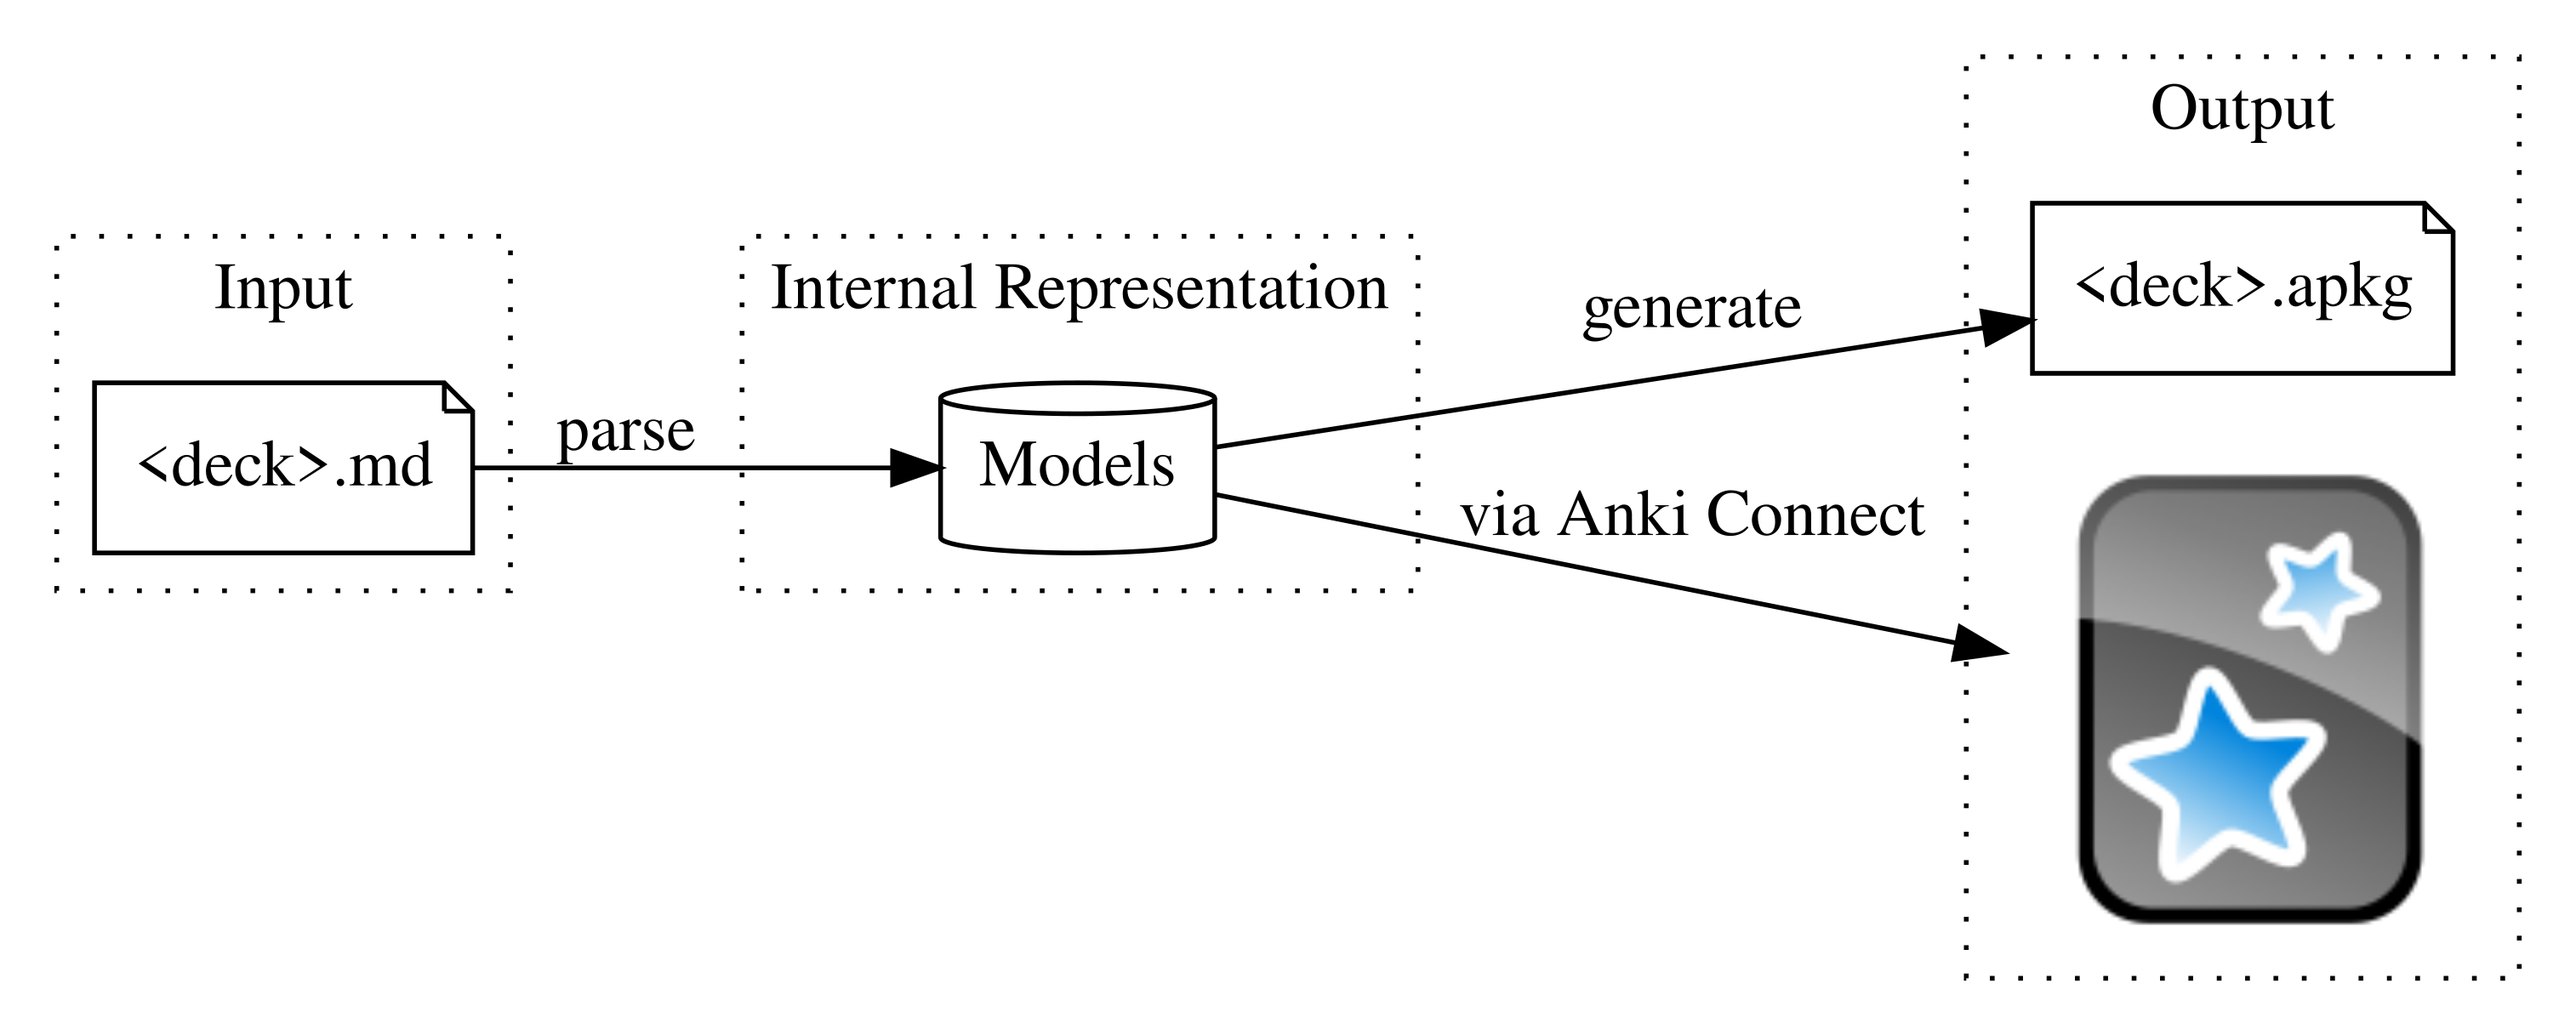
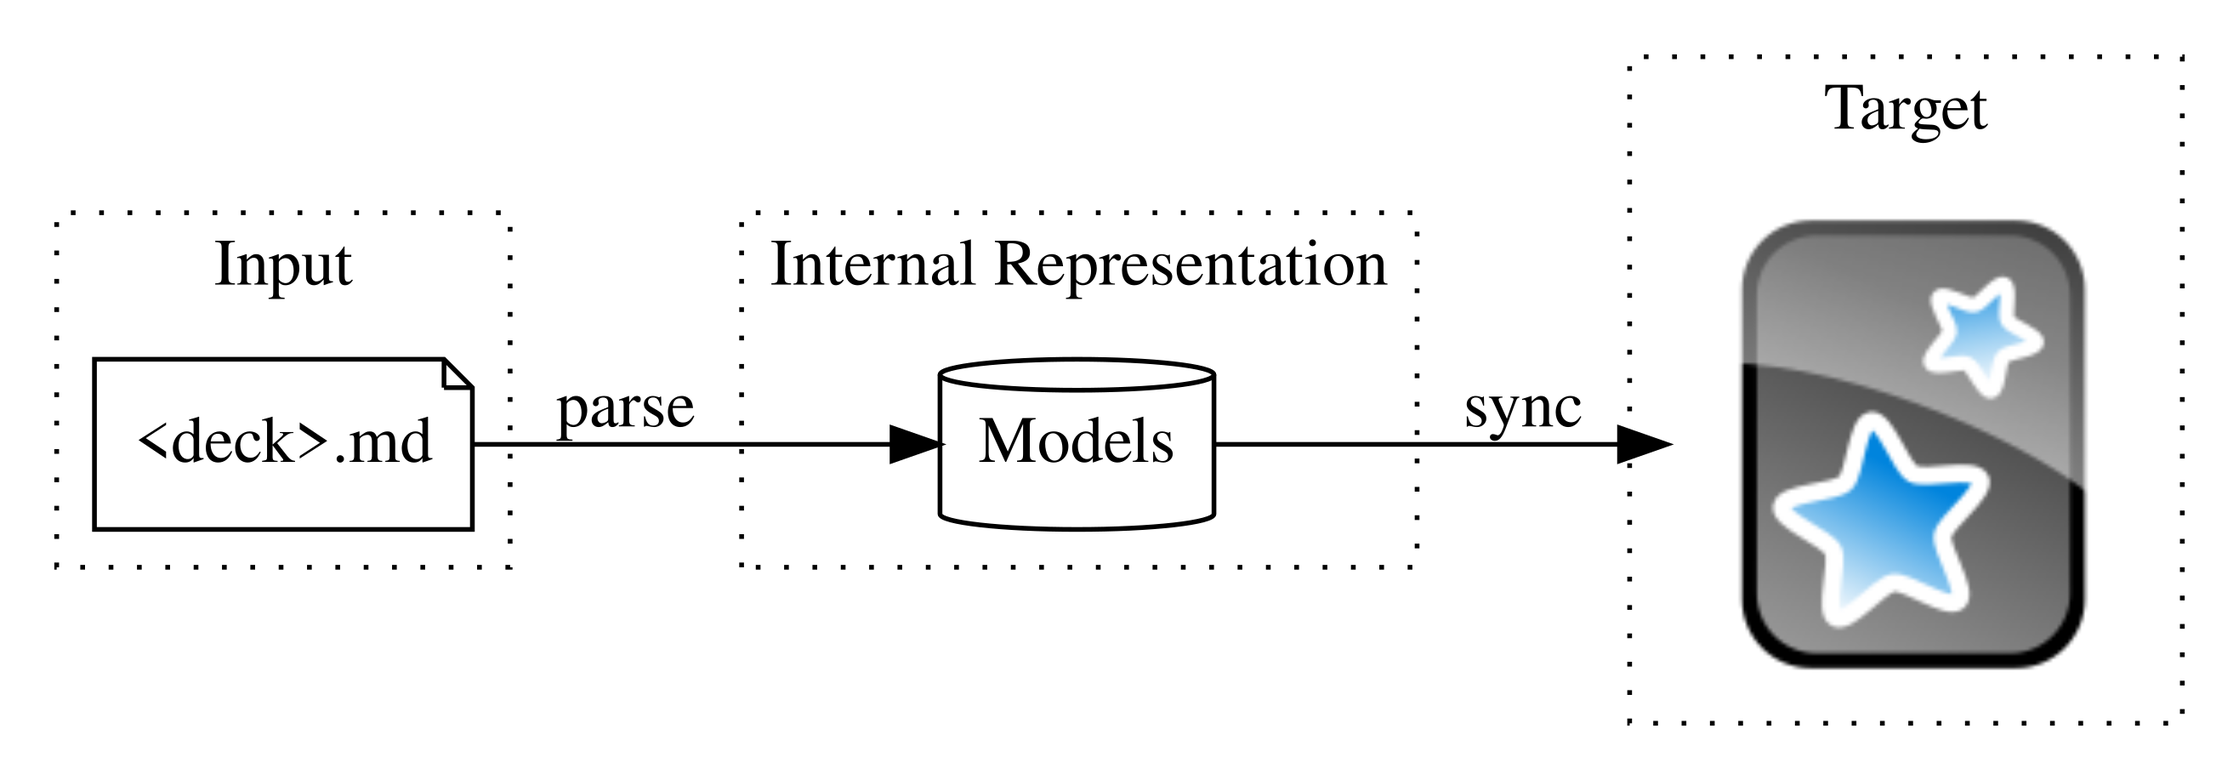
doc: drop the apkg from scope

diff --git a/README.md b/README.md
@@ -14,8 +14,8 @@ The markdown format for Anki cards.
 
 ### Actions
 
-- 🔄 [WIP] Sync: md -> Anki Desktop (via [Anki Connect](https://ankiweb.net/shared/info/2055492159))
-- ➡ [TODO] Convert: md -> deck apkg
+- 🔄 `sync`: md -> Anki Desktop (via [Anki Connect](https://ankiweb.net/shared/info/2055492159))
+- ➡ `connect`: [Anki Connect](https://github.com/FooSoft/anki-connect#supported-actions) wrapper
 
 ## Features
 
